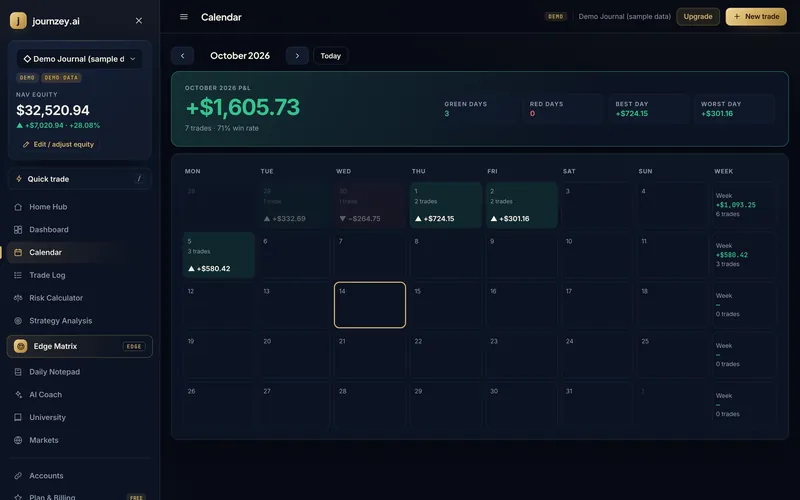
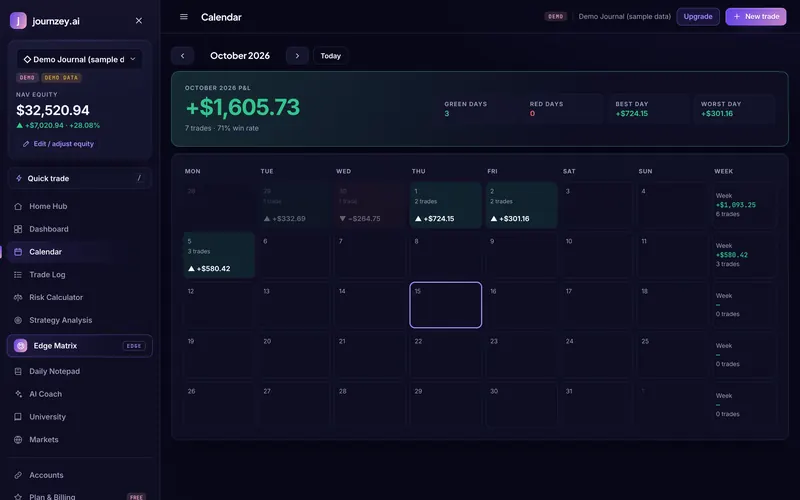
Regenerate landing product screenshots in the brand gradient theme
Claude-Session: https://claude.ai/code/session_01MgL4Us7ksQsfohAV5KkAcm

diff --git a/app/views/public/sections/showcase.php b/app/views/public/sections/showcase.php
@@ -21,7 +21,7 @@ $chips = ['Voice logging in 4 languages', 'Prop firm rule tracker', 'Unlimited b
         <div class="shot-bar" aria-hidden="true"><span></span><span></span><span></span><em>journzey.ai · Home Hub</em></div>
         <?= $img('home', 'journzey.ai Home Hub: greeting, daily focus quote, execution desk with voice logging and session clock (demo data)') ?>
       </div>
-      <img class="sc-pop sc-pop-a" src="<?= $pi('prop.webp') ?>" width="1400" height="300" alt="Prop firm rules: profit target, daily loss, max loss and trading days" loading="lazy">
+      <img class="sc-pop sc-pop-a" src="<?= $pi('prop.webp') ?>" width="1400" height="319" alt="Prop firm rules: profit target, daily loss, max loss and trading days" loading="lazy">
       <img class="sc-pop sc-pop-b" src="<?= $pi('flexcard.webp') ?>" width="720" height="900" alt="Shareable flex card with Verified by journzey.ai QR code" loading="lazy">
     </div>
   </div>
